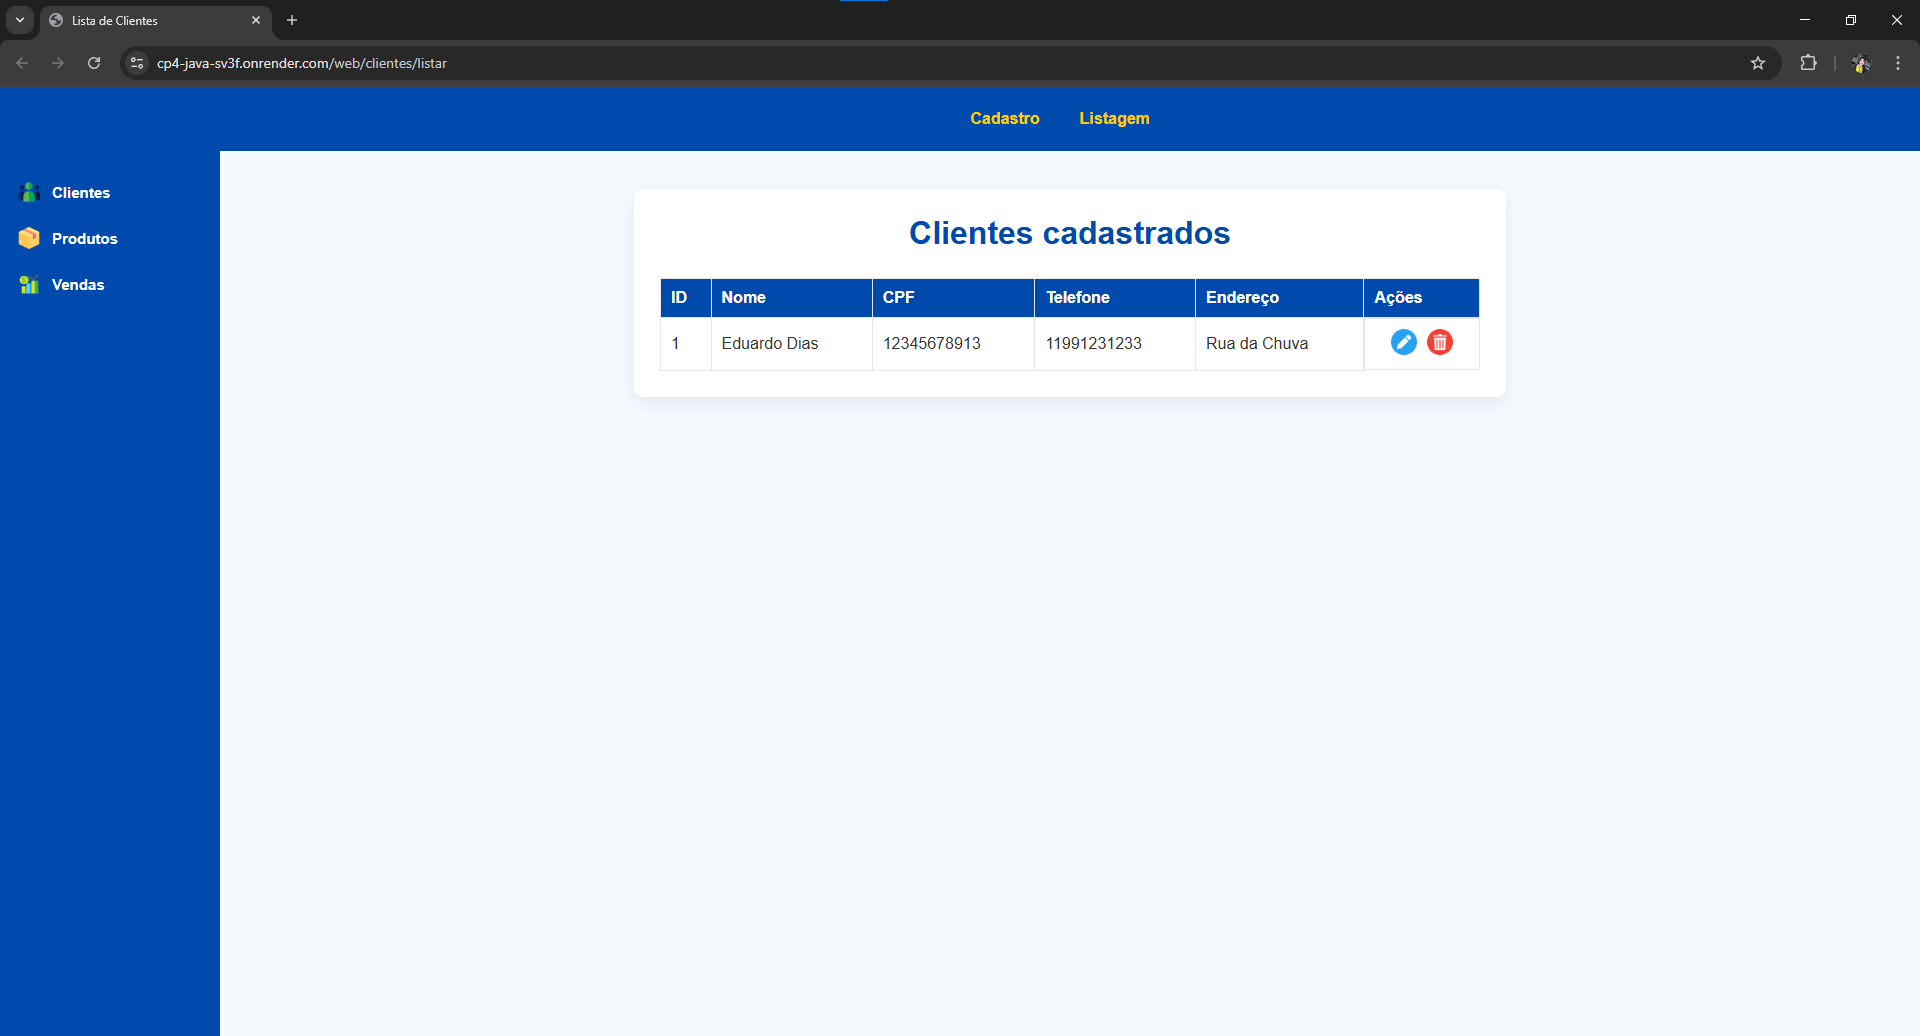
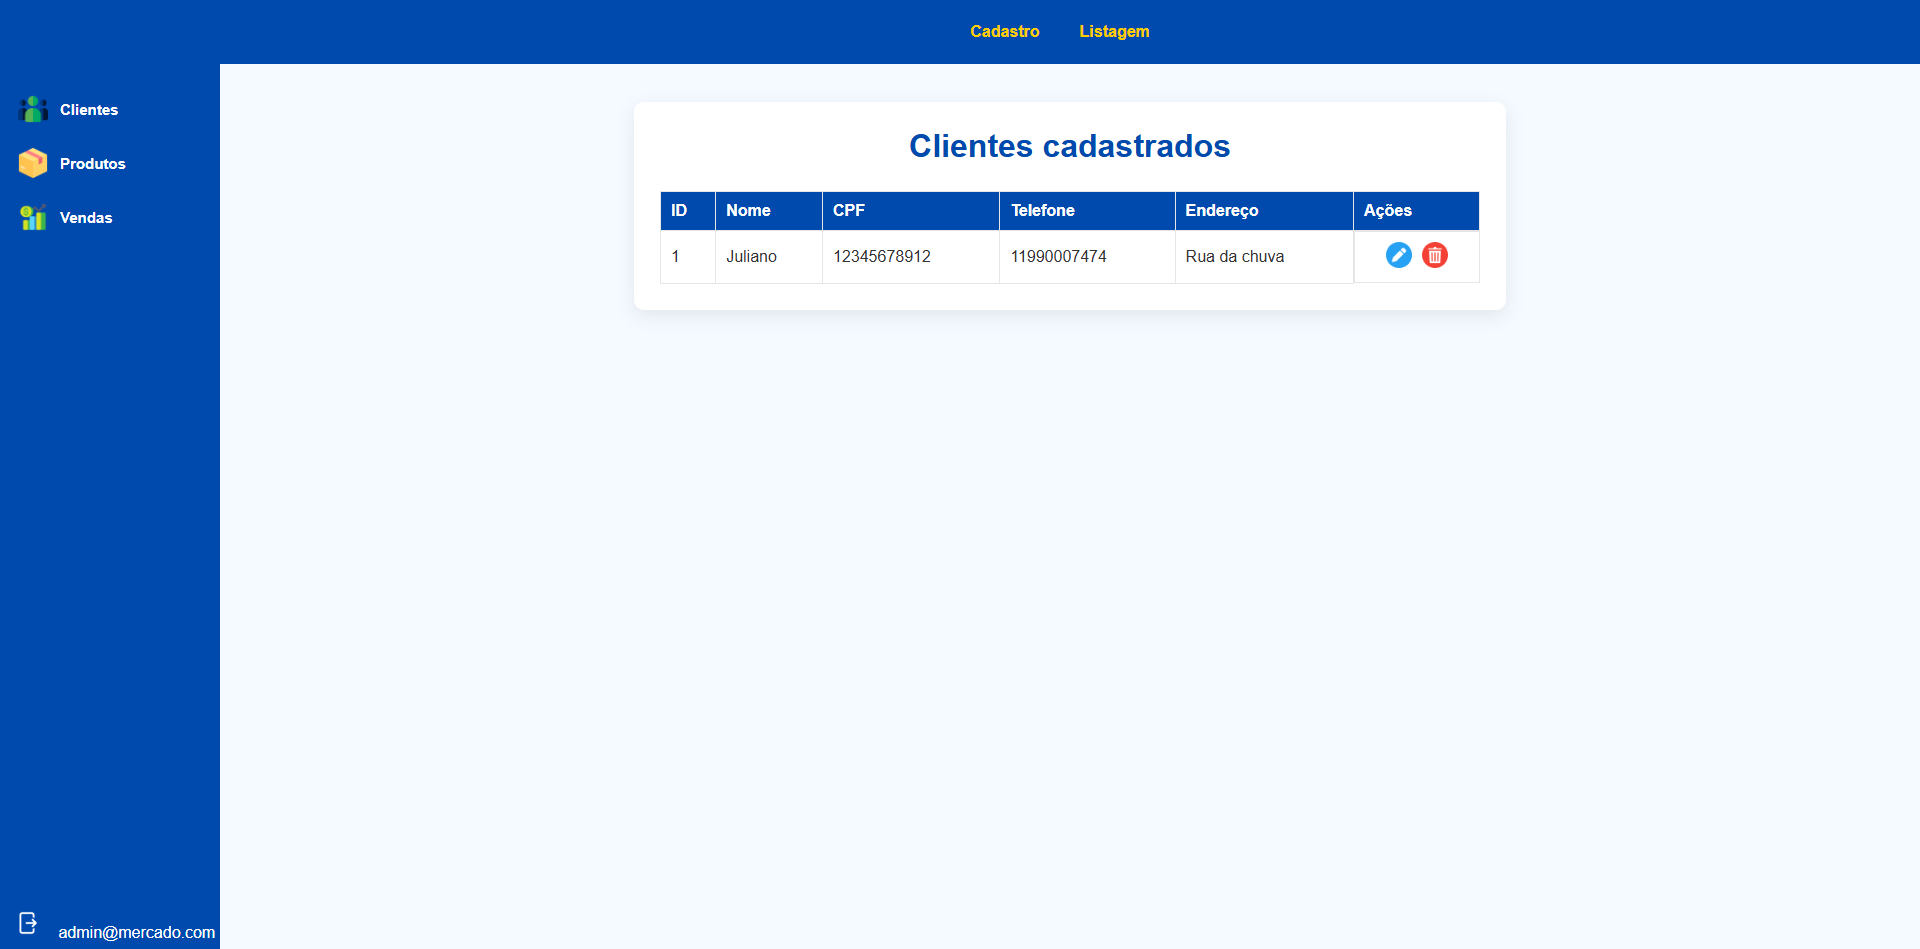
Readme

diff --git a/README.md b/README.md
@@ -1,6 +1,7 @@
-# 🛒 Projeto SuperMarket (Parte II)
+# 🛒 Projeto SuperMarket (CP5 - Parte II)
 
-Este repositório demonstra o funcionamento do sistema SuperMarket, que permite cadastrar produtos e clientes, registrar vendas de forma simples e acompanhar o histórico de transações. Para a parte 2 foram criados novos endpoints que permitem que a API seja acessada via WEB com HTML e Thymeleaf. O sistema desenvolvido com Java e Spring Boot, agora salva Clientes, Produtos e Vendas no Banco de Dados Postgres oferecido pelo Render, e o deploy está nessa mesma plataforma. Acessar a API via protocolos HTTP ainda é possível.
+Este repositório demonstra o funcionamento do sistema SuperMarket, que permite cadastrar produtos e clientes, registrar vendas de forma simples e acompanhar o histórico de transações. Foram criados endpoints que permitem que a API seja acessada via WEB com HTML e Thymeleaf. E agora conta com mais segurança, uma vez que para ser acessada todos os usuários precisam estar autenticados com Spring Security. O sistema desenvolvido com Java e Spring Boot salva Clientes, Produtos e Vendas no Banco de Dados Postgres oferecido pelo Render, e o deploy está nessa mesma plataforma. Acessar a API via protocolos HTTP ainda é possível.
+
 
 ---
 # 🔹 Pacotes utilizados e suas funções
@@ -11,6 +12,7 @@ Este repositório demonstra o funcionamento do sistema SuperMarket, que permite 
 - Entity → Mapeia tabelas e relacionamentos no banco.
 - Repository → Abstrai o acesso e consultas ao banco.
 - Service → Implementa lógica e regras de negócio.
+- Security → Regras de segurança da aplicação
 
 **2. View:**
 - Static → CSS e imagens
@@ -26,26 +28,69 @@ Este repositório demonstra o funcionamento do sistema SuperMarket, que permite 
 - Parte 2 → Eclipse
 ---
 
-## Configuração Inicial no Spring Initializr (CP4 - Parte 2)
+## Configuração Inicial no Spring Initializr (CP5- Parte 2)
 ![Imagem do projeto](imagem_git/projeto.png)
 
 ---
 
 ## Deploy da API
 
-O Deploy da aplicação foi feito no Render. Acesse os links abaixo e coloque o endpoint no final.
+O Deploy e o banco de daos estão no Render. Acesse os links abaixo e coloque o endpoint no final.
 
 - Para retornar páginas ``HTML``:
-https://cp4-java-sv3f.onrender.com/web/
+https://cp5-java-lox5.onrender.com/
 
 
 - Para retornar em ``JSON``:
-https://cp4-java-sv3f.onrender.com/api/
+https://cp5-java-lox5.onrender.com/api/
 
 
-**Obs:** Para testar no  `localhost` é necessário acessar pela porta 8082, como especificado no ``application.properties``
+**Obs 1:** Para testar no  `localhost` é necessário acessar pela porta 8082, como especificado no ``application.properties`` e passar suas credenciais de acesso.
+
+**Obs 2:** A página de login é acessada automaticamente ao informar o link no navegador, pois a mesma está configurada com `index.html`.
 
 ---
+
+## Acesso / Usuários
+
+Foram definidos dois usuários, assim que a aplicação inicia:
+- **ADMIN:** tem permissão pra fazer o CRUD completo e acessar todas as telas do sistema.
+- **USER:** tem permissão para acessar todas as telas e criar as entidades (GET e POST). 
+
+Para acessar as telas, basta logar com um desses usuários:
+| Email               | Senha     | Role (permissão)  |
+| ------------------- | --------- | ----------------- |
+| admin@mercado.com   | 123456    | ADMIN             |
+| user@mercado.com    | 123456    | USER              |
+
+**Obs:** todos os usuários criados a partir da tela de `Cadastro` recebem automaticamente a Role `USER`.
+
+![](imagem_git/login.png)
+
+Para acessar via Postman, coloque o Email e Senha na sessão de Basic Auth antes de cada requisição:
+
+![](imagem_git/loginPostman.png)
+
+**Obs:** todos os endpoints são acessados via **`localhost:8082`**
+
+---
+
+## Páginas HTML
+
+#### Login e Cadastro:
+![](imagem_git/login.png)
+![](imagem_git/cadastro.png)
+
+#### Fomulário de cadastro e Listagem
+![](imagem_git/formulario.png)
+![](imagem_git/listagem.png)
+
+#### Acesso negado (somente para roles do tipo USER):
+![](imagem_git/403.png)
+
+---
+
+
 
 ## Endpoints
 
@@ -92,33 +137,27 @@ Estes controllers retornam páginas HTML, não JSON. E somente os GETs podem ser
 
 #### 👥 Clientes (`/web/clientes`)
 
-| Método | URI                        | Descrição                                     | View retornada              |
-|--------|----------------------------|-----------------------------------------------|-----------------------------|
-| GET    | `/web/clientes/listar`     | Lista todos os clientes                       | `cliente/cliente-listar`    |
-| GET    | `/web/clientes/formulario` | Exibe o formulário de cadastro/edição         | `cliente/cliente-form`      |
-| GET    | `/web/clientes/editar/{id}`| Exibe o formulário preenchido para edição     | `cliente/cliente-form`      |
-| POST   | `/web/clientes/salvar`     | Salva cliente (novo ou edição) e redireciona  | Redirect → `/listar`        |
-| GET    | `/web/clientes/excluir/{id}`| Exclui cliente e redireciona para listagem   | Redirect → `/listar`        |
+| Método | URI                        | Descrição                                     |
+|--------|----------------------------|-----------------------------------------------|
+| GET    | `/web/clientes/listar`     | Lista todos os clientes                       |
+| GET    | `/web/clientes/formulario` | Exibe o formulário de cadastro/edição         |
+
 
 #### 📦 Produtos (`/web/produtos`)
 
-| Método | URI                         | Descrição                                      | View retornada              |
-|--------|-----------------------------|------------------------------------------------|-----------------------------|
-| GET    | `/web/produtos/listar`      | Lista todos os produtos                        | `produto/produto-listar`    |
-| GET    | `/web/produtos/formulario`  | Exibe o formulário de cadastro/edição          | `produto/produto-form`      |
-| GET    | `/web/produtos/editar/{id}` | Exibe o formulário preenchido para edição      | `produto/produto-form`      |
-| POST   | `/web/produtos/salvar`      | Salva produto (novo ou edição) e redireciona   | Redirect → `/listar`        |
-| GET    | `/web/produtos/excluir/{id}`| Exclui produto e redireciona para listagem     | Redirect → `/listar`        |
+| Método | URI                         | Descrição                                      |
+|--------|-----------------------------|------------------------------------------------|
+| GET    | `/web/produtos/listar`      | Lista todos os produtos                        |
+| GET    | `/web/produtos/formulario`  | Exibe o formulário de cadastro/edição          |
+
 
 #### 💰 Vendas (`/web/vendas`)
 
-| Método | URI                       | Descrição                                       | View retornada            |
-|--------|---------------------------|-------------------------------------------------|---------------------------|
-| GET    | `/web/vendas/listar`      | Lista todas as vendas                           | `venda/venda-listar`      |
-| GET    | `/web/vendas/formulario`  | Exibe o formulário de cadastro/edição           | `venda/venda-form`        |
-| GET    | `/web/vendas/editar/{id}` | Exibe o formulário preenchido para edição       | `venda/venda-form`        |
-| POST   | `/web/vendas/salvar`      | Salva venda (nova ou edição) e redireciona      | Redirect → `/listar`      |
-| GET    | `/web/vendas/excluir/{id}`| Exclui venda e redireciona para listagem        | Redirect → `/listar`      |
+| Método | URI                       | Descrição                                       |
+|--------|---------------------------|-------------------------------------------------|
+| GET    | `/web/vendas/listar`      | Lista todas as vendas                           |
+| GET    | `/web/vendas/formulario`  | Exibe o formulário de cadastro/edição           |
+
 
 
 ---
@@ -154,12 +193,6 @@ Estes controllers retornam páginas HTML, não JSON. E somente os GETs podem ser
     "desconto": 10.00
 }
 ````
-
----
-
-## Páginas HTML
-![Imagem do projeto](imagem_git/listagem.png)
-![Imagem do projeto](imagem_git/cadastro.png)
 
 ---
 
